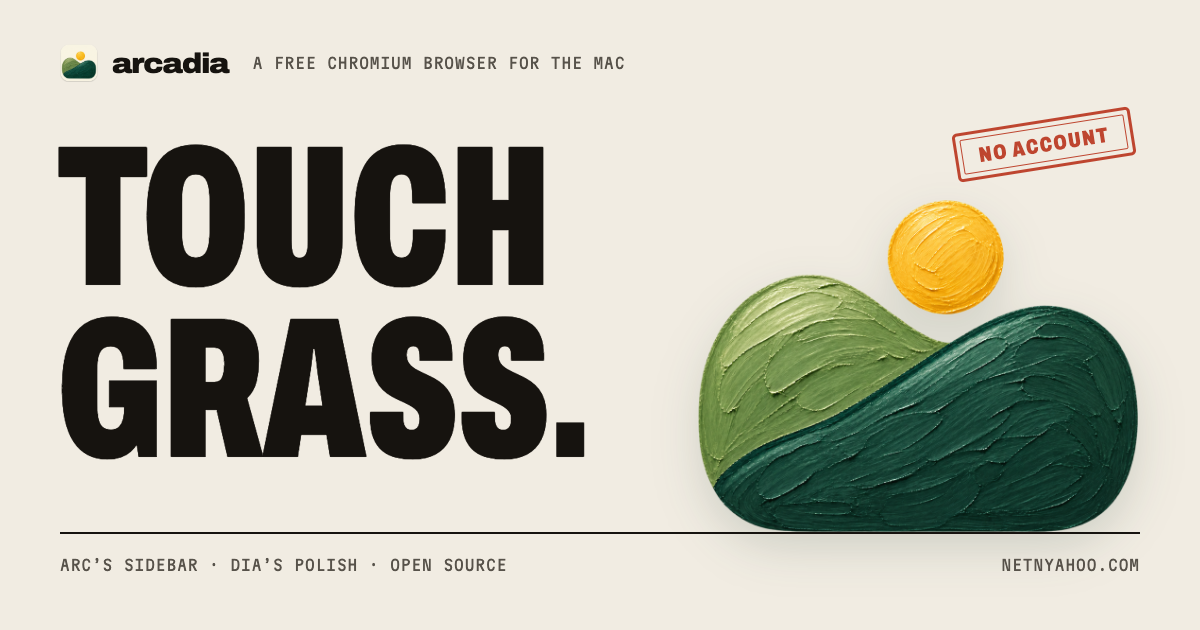
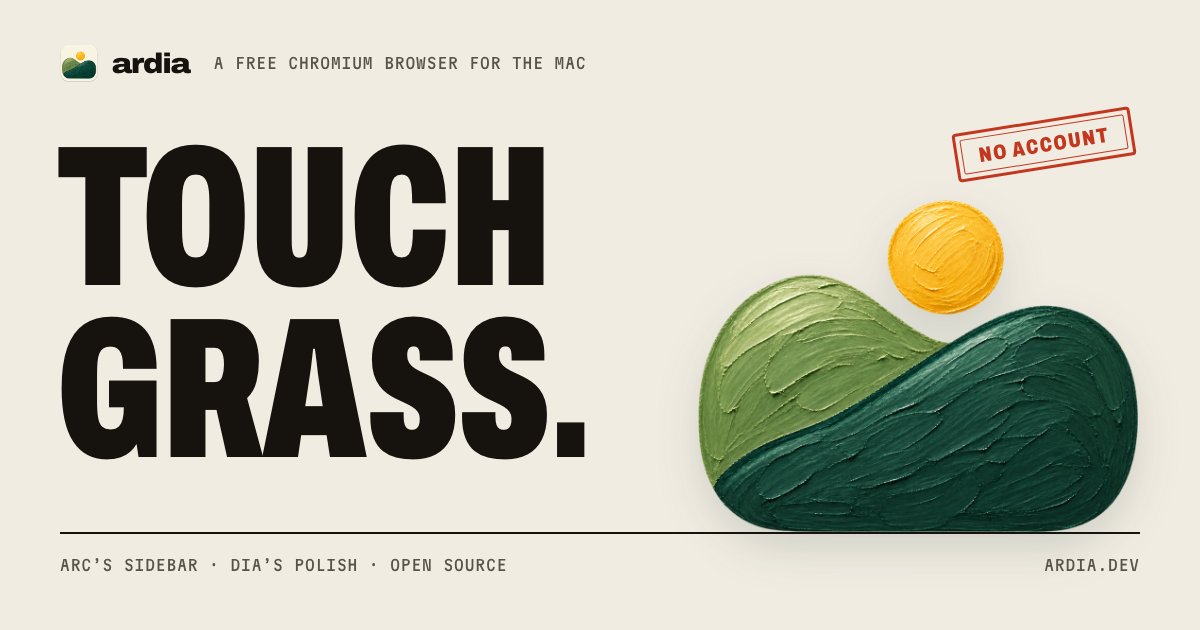
Site: Ardia at ardia.dev
The wordmark, titles, meta, copy and links say Ardia and ardia.dev (canonical URLs,
sitemap, robots, og tags come from SITE_URL, now https://ardia.dev). The FAQ's
"Why Ardia?" answers "Arc plus Dia." without the open-country line. The share card is
remade with "ardia" and ARDIA.DEV, matching the old card elsewhere to under 1/255.

The shorter wordmark no longer needs the phones' smaller size (it was there because
"arcadia" ran into Menu at 320 px): 57.9 px everywhere, 50.7 px clear of Menu at 360.
Headlines break as before at 1280 and 390.

The site still reports from netnyahoo.com, which keeps serving it, and the download
link keeps Netnyahoo-<version>.dmg for releases before 0.2.33 (0.2.32's asset is
Netnyahoo-0.2.32.dmg).

Changed region(s): [[0.0925, 0.0905, 0.5242, 0.1206], [0.8325, 0.8746, 0.9558, 0.9048], [0.3083, 0.6333, 0.3392, 0.6635]]

diff --git a/apps/site/src/data/features.ts b/apps/site/src/data/features.ts
@@ -13,7 +13,7 @@ import pipPoster from "../assets/shots/pip-loop-poster.webp";
 import pipMp4 from "../assets/shots/pip-loop.mp4";
 import pipWebm from "../assets/shots/pip-loop.webm";
 
-// Every image here is a real capture of Arcadia (see apps/site/README.md). Window shots are
+// Every image here is a real capture of Ardia (see apps/site/README.md). Window shots are
 // ScreenCaptureKit captures of the window; `panel` shots are the app's own render of one view
 // (no window frame), used where a window capture wasn't possible.
 export interface Feature {
@@ -38,7 +38,7 @@ export const features: Feature[] = [
     title: "Lose the toolbar.",
     body: "Move the address bar into the sidebar and the page runs to the top of the window.",
     shots: [addressToolbar, addressSidebar],
-    alt: "Two Arcadia windows on the same Wikipedia page: behind, the address bar in a toolbar above the page; in front, the address bar in the sidebar under the traffic lights and the page running to the top of the window.",
+    alt: "Two Ardia windows on the same Wikipedia page: behind, the address bar in a toolbar above the page; in front, the address bar in the sidebar under the traffic lights and the page running to the top of the window.",
     caption: "Before and after",
     focus: { x: 0, y: 0, zoom: 2.1, ratio: 0.8 },
   },
@@ -47,7 +47,7 @@ export const features: Feature[] = [
     title: "Two pages, one window.",
     body: "Drag a tab onto the page. Up to three panes.",
     shots: [split],
-    alt: "Arcadia in split view: MDN on the left, Wikipedia on the right, both in one window.",
+    alt: "Ardia in split view: MDN on the left, Wikipedia on the right, both in one window.",
     caption: "Split view",
     focus: { x: 0.5, y: 0, zoom: 1.3, ratio: 0.8 },
   },
@@ -56,7 +56,7 @@ export const features: Feature[] = [
     title: "Refuses to leave the picture.",
     body: "Switch tabs mid-video and it floats along in the corner. Go back to its tab and it slips back into the page.",
     shots: [pip],
-    alt: "Arcadia on Wikipedia’s article about Big Buck Bunny, while the film keeps playing in a small floating window at the bottom right. Its tab, muted, is in the sidebar, with a player at the foot of the sidebar.",
+    alt: "Ardia on Wikipedia’s article about Big Buck Bunny, while the film keeps playing in a small floating window at the bottom right. Its tab, muted, is in the sidebar, with a player at the foot of the sidebar.",
     caption: "Picture in Picture, still playing",
     focus: { x: 1, y: 1, zoom: 2.4, ratio: 0.8 },
     // The capture's floating window, 336 × 189 pt at 2×, where it opened over the 1440 × 900 window.
@@ -67,16 +67,16 @@ export const features: Feature[] = [
     title: "Work stays at work.",
     body: "Each profile keeps its own logins, history and colour. Swipe the sidebar to switch.",
     shots: [sideProject, work, personal],
-    alt: "Three Arcadia windows, one per profile, each tinted in its colour with its name next to the window buttons: Side project in orange, Work in blue, Personal in plum.",
+    alt: "Three Ardia windows, one per profile, each tinted in its colour with its name next to the window buttons: Side project in orange, Work in blue, Personal in plum.",
     caption: "Three profiles",
     focus: { x: 0, y: 0, zoom: 2.4, ratio: 0.8 },
   },
   {
     id: "extensions",
     title: "Your extensions come along.",
-    body: "The Chrome Web Store, with a button that says Add to Arcadia.",
+    body: "The Chrome Web Store, with a button that says Add to Ardia.",
     shots: [extensions],
-    alt: "Dark Reader’s page on the Chrome Web Store, open in Arcadia, with an Add to Arcadia button.",
+    alt: "Dark Reader’s page on the Chrome Web Store, open in Ardia, with an Add to Ardia button.",
     caption: "The Chrome Web Store, working",
     focus: { x: 1, y: 0.1, zoom: 1.19, ratio: 0.8 },
   },
@@ -86,7 +86,7 @@ export const features: Feature[] = [
     body: "uBlock Origin Lite is built in. Google’s pings are compiled out. Crash reports are opt-in: no sites, no searches.",
     shots: [privacy],
     panel: true,
-    alt: "Arcadia’s Privacy & Security settings: switches to block ads, trackers and cookie banners, and the number of filter rules loaded.",
+    alt: "Ardia’s Privacy & Security settings: switches to block ads, trackers and cookie banners, and the number of filter rules loaded.",
     caption: "Settings › Privacy & Security",
     focus: { x: 0.96, y: 0, zoom: 1.4, ratio: 0.75 },
   },

diff --git a/apps/site/src/scripts/telemetry/core.ts b/apps/site/src/scripts/telemetry/core.ts
@@ -51,7 +51,7 @@ export function readJSON<T>(key: string): T | null {
 // ---------------------------------------------------------------- switch
 
 const production = PRODUCTION_HOSTS.includes(location.hostname);
-/** Only netnyahoo.com reports; anything else only after `localStorage.setItem("ac:telemetry", "dev")`. */
+/** Only the production hosts (PRODUCTION_HOSTS) report; anything else only after `localStorage.setItem("ac:telemetry", "dev")`. */
 export const enabled = production || DEV_OPT_IN.some((key) => read(key) === "dev");
 const environment = production ? "production" : "development";
 
@@ -146,7 +146,7 @@ const language = navigator.language || "";
 
 /** What every event carries about the browser; the URL parts are read when the event happens. */
 const constant: Props = {
-  $lib: "arcadia-web",
+  $lib: "ardia-web",
   $lib_version: LIB_VERSION,
   ...device,
   $raw_user_agent: navigator.userAgent,
@@ -305,7 +305,7 @@ const resource = {
 
 // ---------------------------------------------------------------- queue
 
-type Scope = "arcadia.analytics" | "arcadia.site";
+type Scope = "ardia.analytics" | "ardia.site";
 interface Queued {
   scope: Scope;
   record: LogRecord;
@@ -414,7 +414,7 @@ export function capture(event: string, props: Props = {}, options: CaptureOption
       ...props,
     };
     enqueue(
-      "arcadia.analytics",
+      "ardia.analytics",
       {
         timeUnixNano: nanos(options.timestamp ?? now),
         severityNumber: 9,
@@ -442,7 +442,7 @@ export function log(level: keyof typeof SEVERITY, message: string, props: Props 
   if (!enabled) return;
   try {
     const [severityNumber, severityText] = SEVERITY[level];
-    enqueue("arcadia.site", {
+    enqueue("ardia.site", {
       timeUnixNano: nanos(Date.now()),
       severityNumber,
       severityText,

diff --git a/apps/site/src/data/telemetry.ts b/apps/site/src/data/telemetry.ts
@@ -1,8 +1,9 @@
 // First-party analytics and session replay: what the site sends, where, and when (src/scripts/telemetry/).
-// The wire format is OTLP/HTTP JSON logs; netnyahoo.com's nginx forwards /otel/ to our own collector.
+// The wire format is OTLP/HTTP JSON logs; ardia.dev's nginx forwards /otel/ to our own collector.
 
-/** Only these hosts report; anywhere else stays silent unless opted in (DEV_OPT_IN). */
-export const PRODUCTION_HOSTS = ["netnyahoo.com", "www.netnyahoo.com"];
+/** Only these hosts report; anywhere else stays silent unless opted in (DEV_OPT_IN). netnyahoo.com, the name
+ * before the rename, serves the same site for good. */
+export const PRODUCTION_HOSTS = ["ardia.dev", "www.ardia.dev", "netnyahoo.com", "www.netnyahoo.com"];
 
 /** `localStorage.setItem(key, "dev")` makes any other host (localhost, a preview) report too. */
 export const DEV_OPT_IN = ["ac:telemetry", "ac:posthog"];
@@ -11,7 +12,7 @@ export const DEV_OPT_IN = ["ac:telemetry", "ac:posthog"];
 export const LOGS_PATH = "/otel/v1/logs";
 export const REPLAY_PATH = "/otel/replay";
 
-export const SERVICE_NAME = "arcadia-site";
+export const SERVICE_NAME = "ardia-site";
 
 /** PostHog's project token, only to find the visitor id posthog-js stored (ph_<token>_posthog), so a returning
  * visitor stays the same visitor across the switch. */

diff --git a/apps/site/src/scripts/support.ts b/apps/site/src/scripts/support.ts
@@ -1,7 +1,7 @@
 // "Write to us" (components/Footer.astro): PostHog's support chat. posthog-js loads only when the button is
 // clicked, through nginx's /relay, and only for the chat: it captures nothing else (no pageviews, clicks,
 // replays, errors, vitals, logs, surveys or flags). The chat needs PostHog's remote config, which stays on.
-// The button shows on netnyahoo.com, where the chat is allowed (PostHog's widget domains), as it did when
+// The button shows on the production hosts, where the chat is allowed (PostHog's widget domains), as it did when
 // posthog-js was on every page; if the chat can't load (a blocker), the button goes away again.
 import { PRODUCTION_HOSTS } from "../data/telemetry";
 import { distinctId } from "./telemetry/core";
@@ -77,7 +77,7 @@ function open(posthog: PostHog) {
   press();
 }
 
-// On localhost, ?nnsupport=1 shows it too (PostHog only allows the chat on netnyahoo.com's domains).
+// On localhost, ?nnsupport=1 shows it too (PostHog only allows the chat on the production hosts).
 const local = /^(localhost|127\.0\.0\.1|\[::1\])$/.test(location.hostname) && new URLSearchParams(location.search).has("nnsupport");
 const buttons = document.querySelectorAll<HTMLButtonElement>("[data-support]");
 if (buttons.length && (PRODUCTION_HOSTS.includes(location.hostname) || local)) {

diff --git a/apps/site/src/data/release.ts b/apps/site/src/data/release.ts
@@ -1,6 +1,8 @@
 export const VERSION = "0.2.32";
 export const DMG_SIZE = "190 MB";
-export const REPO = "https://github.com/mantrakp04/arcadia";
+export const REPO = "https://github.com/mantrakp04/ardia";
 export const RELEASES = `${REPO}/releases/latest`;
-export const DMG = `${REPO}/releases/latest/download/Arcadia-${VERSION}.dmg`;
+// Releases up to 0.2.32 shipped as Netnyahoo-<version>.dmg; Ardia-<version>.dmg from 0.2.33.
+const DMG_NAME = VERSION.localeCompare("0.2.33", "en", { numeric: true }) < 0 ? "Netnyahoo" : "Ardia";
+export const DMG = `${REPO}/releases/latest/download/${DMG_NAME}-${VERSION}.dmg`;
 export const MIN_MACOS = "macOS 14 Sonoma";

diff --git a/apps/site/src/scripts/send-to-mac.ts b/apps/site/src/scripts/send-to-mac.ts
@@ -6,8 +6,8 @@
 // Tracks send_to_mac_clicked { location, method: "email" | "share" | "copy" | "panel", outcome?, via?: "main" | "link", inapp? }.
 import { track } from "./track";
 
-const LINK = "https://netnyahoo.com/?ref=share";
-const DATA: ShareData = { url: LINK, title: "Arcadia", text: "Arcadia: real Chromium for the Mac. Open this on your Mac." };
+const LINK = "https://ardia.dev/?ref=share";
+const DATA: ShareData = { url: LINK, title: "Ardia", text: "Ardia: real Chromium for the Mac. Open this on your Mac." };
 
 const root = document.documentElement;
 const inapp = root.dataset.inapp ?? null;

diff --git a/apps/site/src/data/github.ts b/apps/site/src/data/github.ts
@@ -4,8 +4,8 @@ const MIN_SHOWN = 100;
 
 async function fetchStars(): Promise<number | null> {
   try {
-    const res = await fetch("https://api.github.com/repos/mantrakp04/arcadia", {
-      headers: { Accept: "application/vnd.github+json", "User-Agent": "arcadia-site-build" },
+    const res = await fetch("https://api.github.com/repos/mantrakp04/ardia", {
+      headers: { Accept: "application/vnd.github+json", "User-Agent": "ardia-site-build" },
       signal: AbortSignal.timeout(5000),
     });
     if (!res.ok) return null;

diff --git a/apps/site/src/scripts/analytics.ts b/apps/site/src/scripts/analytics.ts
@@ -48,7 +48,7 @@ if (sections.length) {
   for (const s of sections) seen.observe(s);
 }
 
-// Links sent from a phone come back with ?ref=: typed netnyahoo.com/mac (pages/mac.astro), the share sheet or
+// Links sent from a phone come back with ?ref=: typed ardia.dev/mac (pages/mac.astro), the share sheet or
 // copy (share), or the email to self (email).
 const sentRef = new URLSearchParams(location.search).get("ref");
 if (sentRef === "mac" || sentRef === "share" || sentRef === "email") {

diff --git a/apps/site/src/scripts/telemetry/index.ts b/apps/site/src/scripts/telemetry/index.ts
@@ -1,4 +1,4 @@
-// First-party analytics for netnyahoo.com (replaces PostHog). Importing it starts everything once:
+// First-party analytics for ardia.dev (replaces PostHog). Importing it starts everything once:
 // $pageview/$pageleave (core.ts), clicks, rage and dead clicks (autocapture.ts), errors and console logs
 // (errors.ts), web vitals (vitals.ts), the flags' super properties (flags.ts) and session replay (replay.ts).
 import { enabled } from "./core";

diff --git a/apps/site/src/styles/global.css b/apps/site/src/styles/global.css
@@ -1,4 +1,4 @@
-/* Arcadia: the poster system.
+/* Ardia: the poster system.
    One theme on purpose: a printed poster on warm stock, with night sections for rhythm. */
 
 :root {

diff --git a/apps/site/scripts/draw-active.m b/apps/site/scripts/draw-active.m
@@ -1,4 +1,4 @@
-// The site's window captures (README › Screenshots): injected into a re-signed copy of a Debug Arcadia.app, every
+// The site's window captures (README › Screenshots): injected into a re-signed copy of a Debug Ardia.app, every
 // window draws as the active key window (coloured traffic lights, active materials) while the hidden instance stays
 // BackgroundOnly and never activates, and a session's 1440 × 900 pt frame isn't cut down to the screen's visible frame.
 //   clang -dynamiclib -fobjc-arc -framework AppKit -o draw-active.dylib draw-active.m && codesign -s - -f draw-active.dylib
@@ -20,7 +20,7 @@ static void force(Class c, const char *name) {
 
 __attribute__((constructor)) static void drawActive(void) {
   const char *name = getprogname();
-  if (!name || strcmp(name, "Arcadia") != 0) return;  // the app's process, not Chrome's helpers
+  if (!name || strcmp(name, "Ardia") != 0) return;  // the app's process, not Chrome's helpers
   Class w = [NSWindow class];
   force(w, "_hasActiveAppearance");
   force(w, "_hasActiveAppearanceIgnoringKeyFocus");

diff --git a/apps/site/README.md b/apps/site/README.md
@@ -1,4 +1,4 @@
-# Arcadia site
+# Ardia site
 
 The landing page. Astro, built to static files (`dist/`), deployable to GitHub Pages or Cloudflare Pages.
 
@@ -13,19 +13,19 @@ pnpm build      # → dist/
 pnpm preview    # serve dist/
 ```
 
-`SITE_URL` sets the canonical/OG origin, `SITE_BASE` the path prefix (e.g. `SITE_BASE=/arcadia` for GitHub
+`SITE_URL` sets the canonical/OG origin, `SITE_BASE` the path prefix (e.g. `SITE_BASE=/ardia` for GitHub
 Pages without a custom domain).
 
 ## Updating
 
 - **A release:** bump `VERSION` and `DMG_SIZE` in `src/data/release.ts`. The download button links to
-  `releases/latest/download/Arcadia-<version>.dmg`.
+  `releases/latest/download/Ardia-<version>.dmg`.
 - **Release notes:** `/release-notes` renders the repo's `docs/release-notes/<version>.md` (one file per version,
   `src/content.config.ts`), newest first, each at `/release-notes#<version>`. The app opens that anchor after it
   updates, so rebuild and redeploy the site when a release ships (`docs/releasing.md`).
-- **Screenshots:** `src/assets/shots/*.webp` are real window captures of Arcadia (2×, transparent outside
+- **Screenshots:** `src/assets/shots/*.webp` are real window captures of Ardia (2×, transparent outside
   the window). `address-*.webp`, `profile-*.webp`, `split.webp` and `extensions.webp` are captures of the
-  renamed Arcadia (a Debug build before 0.2.33, with the painted-hills New Tab page and glyph): `screencapture -l
+  renamed Ardia (a Debug build before 0.2.33, with the painted-hills New Tab page and glyph): `screencapture -l
   <windowID> -o` of a hidden test instance drawn as the active window by `scripts/draw-active.m` (how to build and
   inject it is in its header), set up from a `session()` fixture (`scripts/lib/instance.mjs`) at 1440 × 900 pt
   (`address-*` 1360 × 860), light appearance except `split` and `extensions` (dark, sidebar 232 pt). The PNGs'
@@ -41,8 +41,8 @@ Pages without a custom domain).
   `Game.astro`. Replace a file with a new capture of the same name; Astro makes the AVIF/WebP sizes. On phones
   a shot shows only its `focus` region (see `Shot.astro` and `data/features.ts`), so check the crop after
   replacing one.
-- **the logo:** `src/assets/arcadia-mark.png` is the painted hills and sun (the brand's `mark-trim.png`, from
-  `output/brand/arcadia/final/` in the main checkout), shown in the hero and the closing section; Astro makes the
+- **the logo:** `src/assets/ardia-mark.png` is the painted hills and sun (the brand's `mark-trim.png`, from
+  `output/brand/ardia/final/` in the main checkout), shown in the hero and the closing section; Astro makes the
   AVIF/WebP sizes. `app-icon.png` (the header) is the macOS icon cropped close to its tile; `public/favicon.png` is
   the tile, rounded, at 64 px; `public/og.png` is the share card.
 - **Fonts:** Fontsource's variable faces, with each Latin file split into the characters the site sets
@@ -52,8 +52,8 @@ Pages without a custom domain).
 
 ## Analytics
 
-netnyahoo.com counts its own visitors: `src/scripts/telemetry/` posts events to `/otel/v1/logs` on the same
-origin (OTLP/HTTP JSON; netnyahoo.com's nginx hands them to our OpenTelemetry Collector, which writes
+ardia.dev counts its own visitors: `src/scripts/telemetry/` posts events to `/otel/v1/logs` on the same
+origin (OTLP/HTTP JSON; ardia.dev's nginx hands them to our OpenTelemetry Collector, which writes
 ClickHouse) and rrweb session replays to `/otel/replay/<session>/<seq>.json[.gz]` (SeaweedFS, kept 30 days).
 The one third-party script is PostHog's support chat ("Write to us", `src/scripts/support.ts`): posthog-js
 loads through nginx's `/relay` only when someone clicks the button, with everything but the chat switched off.
@@ -71,6 +71,6 @@ Visitors are sorted before the first paint (`src/components/Device.astro`): phon
 line, and only Macs evaluate the `download-band` experiment (`src/components/Showcase.astro`). On localhost,
 `?nndevice=phone|mac|other` and `?nnflag=band|control` force them. The experiment log is `docs/growth.md`.
 
-Only netnyahoo.com reports. `pnpm dev`, `pnpm preview` and any other host stay silent unless you opt in from
+Only ardia.dev reports. `pnpm dev`, `pnpm preview` and any other host stay silent unless you opt in from
 the console with `localStorage.setItem("ac:telemetry", "dev")` (the old `"ac:posthog"` works too), and then
 events go to the same paths on that host and carry `environment: development`. Remove the item when you're done.
